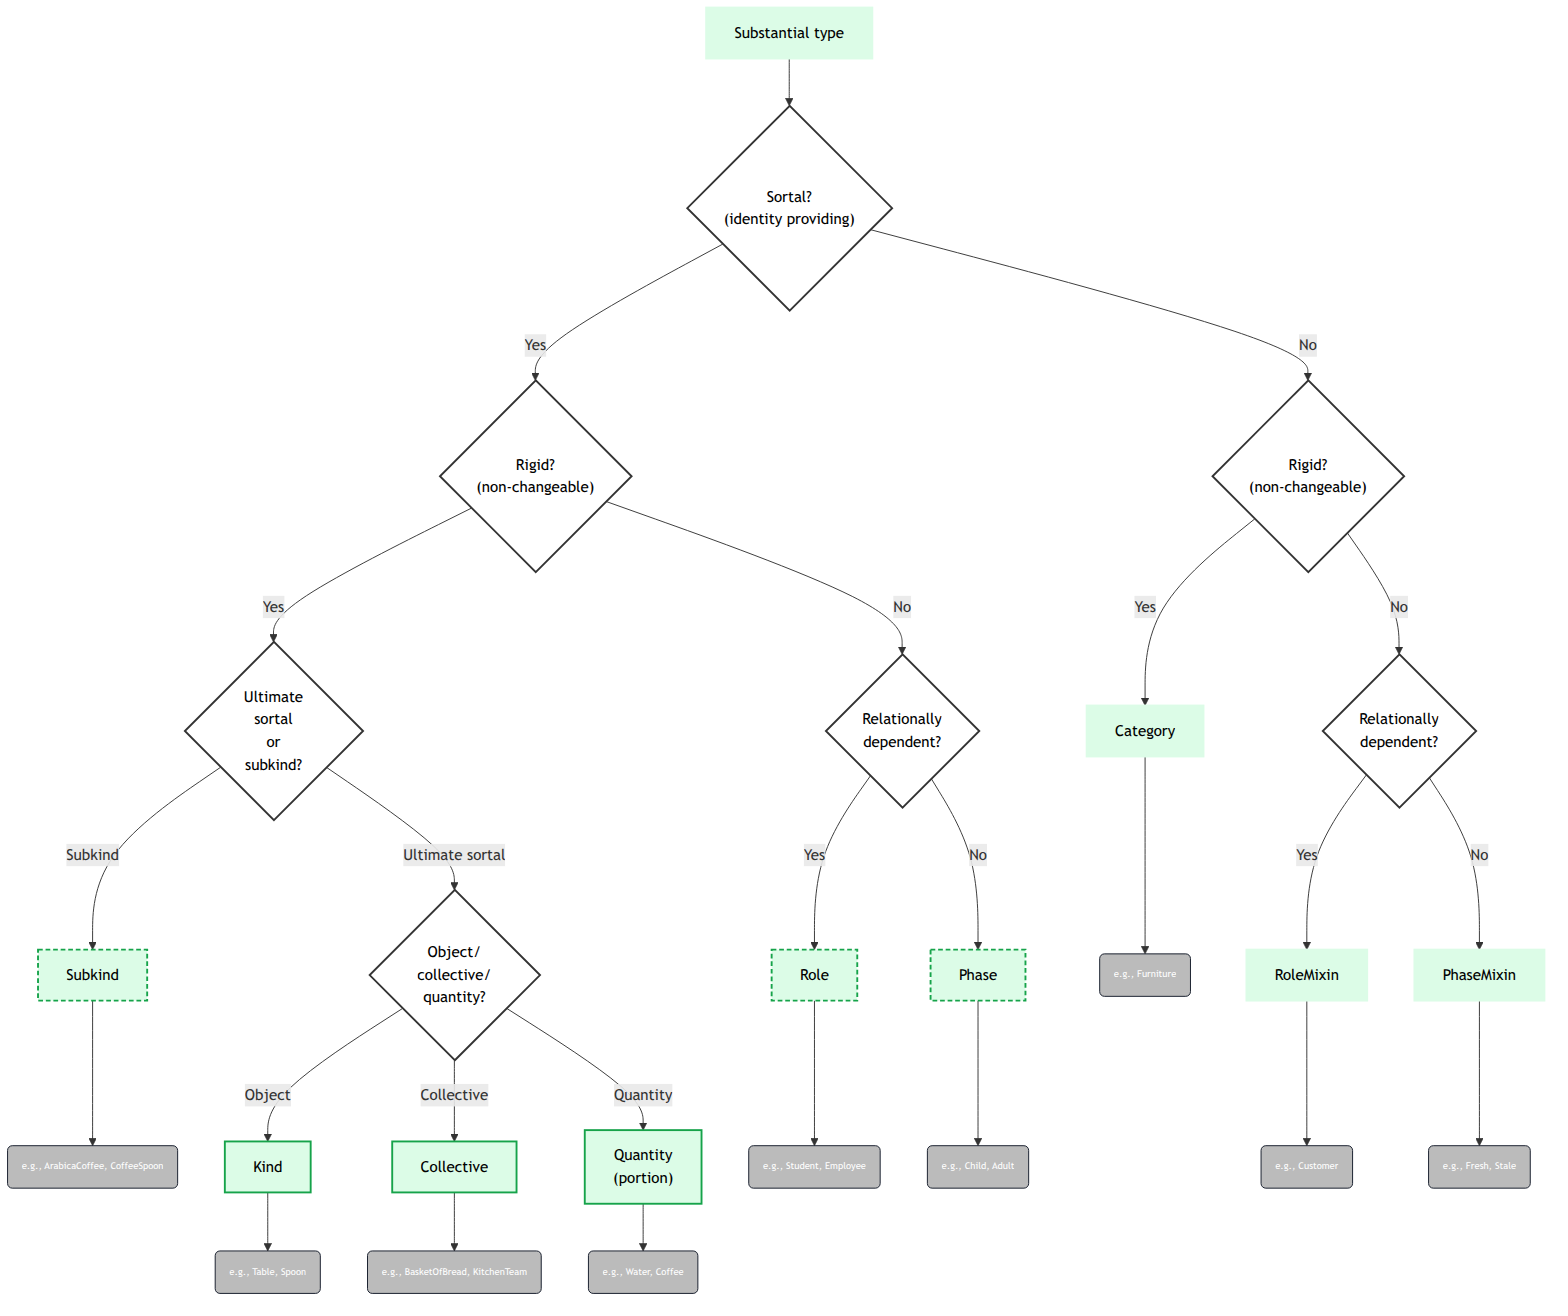
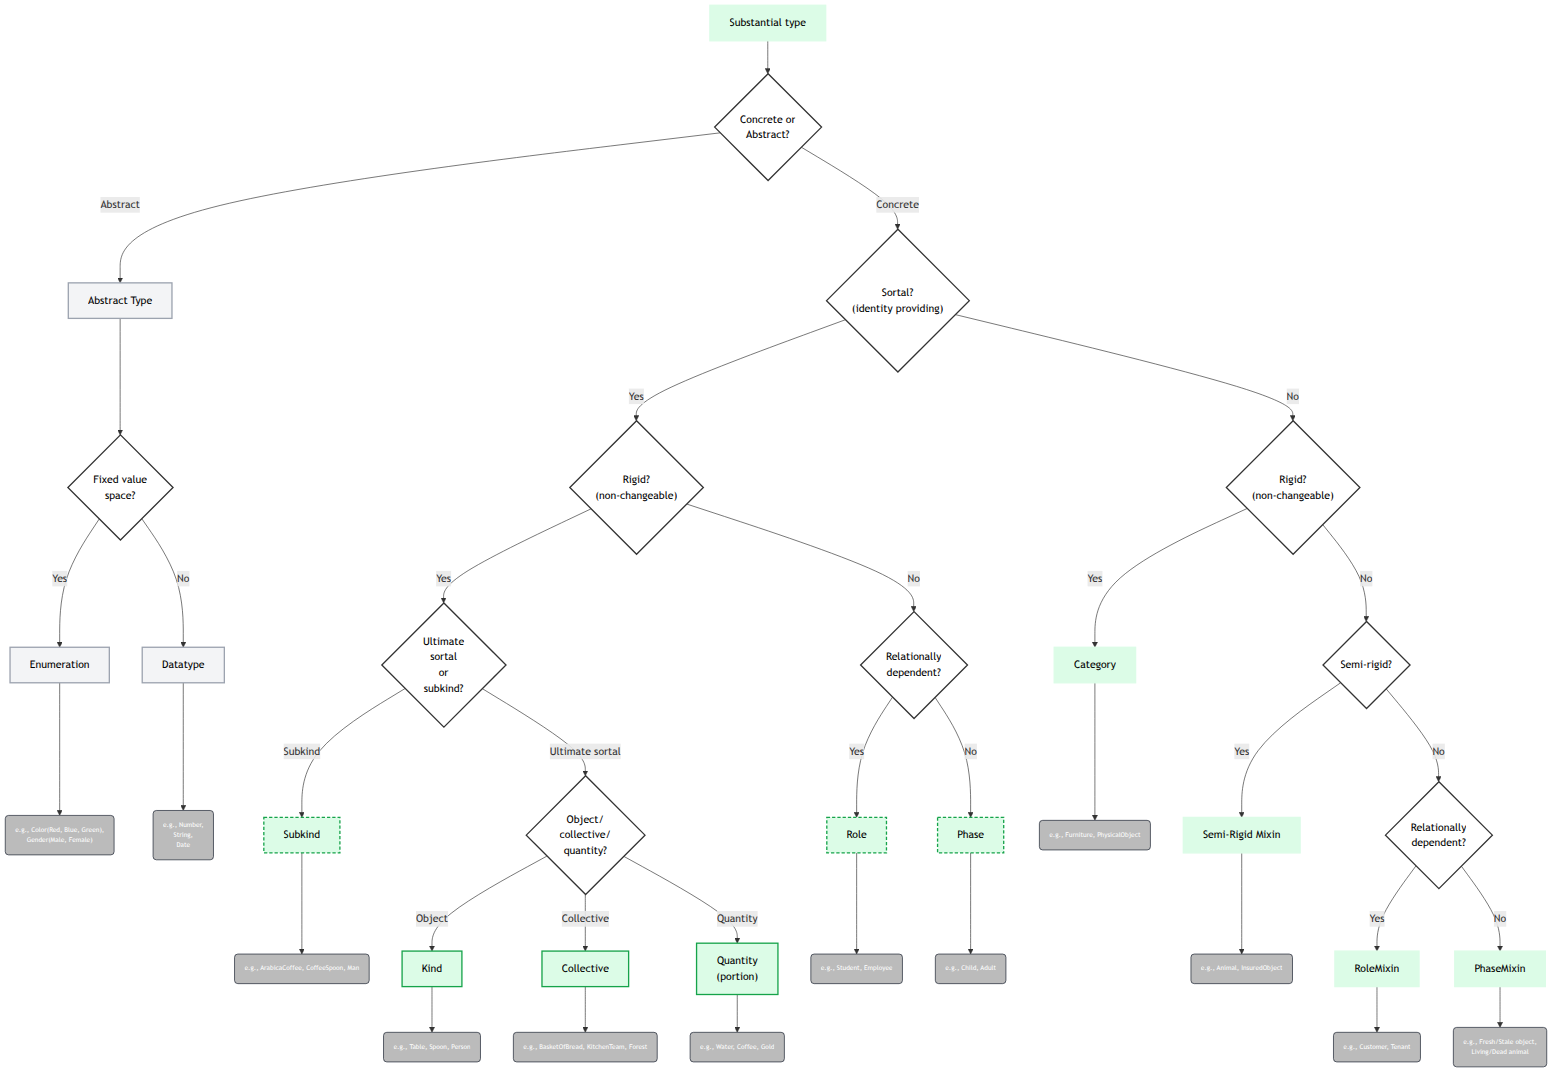
Moving towards first complete version.

diff --git a/README.md b/README.md
@@ -1,13 +1,78 @@
-UFO Modeling Decision Tree
+[UFO Modeling Decision Tree
 ==========================
-This project aims to help novices to get up to speed with UFO modeling. The project contains a decision tree that helps to decide which UFO entity to choose.
+The UFO Modeling Decision Tree is step-by-step guide designed to help novice modelers navigate the Unified Foundational Ontology (UFO). This project provides a structured path to help you decide which UFO entity best represents a concept in your domain, using a series of intuitive questions.
 
-Since I am a novice myself, I am not sure if this decision tree is correct or complete. 
+## Project goals
+The primary aim is to provide a clear overview of the different UFO entities, helping to get a "feel" for the framework without getting lost in formal logic. While the project was born from a learning journey, it has been refined to reflect the core pillars of UFO-A (Structural) and UFO-B (Events/Perdurants).
 
-The aim is to give a good overview of the different UFO entities, so that you can get a feel for the framework. The focus for now is on UFO-A and UFO-B.
+After you get a "feel", reading official UFO documentation should be more straightforward. It is recommended to do this, since the tree is a practical guide and not meant to be a replacement for the official documentation.
+
+![UFO Decision Tree Preview](00-Start.png)
+
+## Key Characteristics
+To make modeling as efficient as possible, this decision tree follows a few unique design principles:
+
+- Type-Individual Mirroring: There is a symmetry between the Universal (Type) tree and the Individual (Instance) tree. This ensures that the logic you use to define a category (e.g., "Person") is the same logic you use to classify a specific fact (e.g., "John").
+- Referential Consistency: To reduce complexity, the Individual tree acts as a "mirror." For well-understood structures like Part-Whole relations, the Individual tree refers you back to the Type tree's laws rather than duplicating the entire sub-tree.
+- Module Integration: The flow seamlessly bridges structural categories (UFO-A) with dynamic event mereology (UFO-B).
+- Visual Guidance: Consistent color-coding helps you stay oriented:
+
+    - Green: Substantial Types (Objects, Kinds)
+    - Orange: Moment Types (Properties, Relators)
+    - Blue: Perdurant Types (Events, Processes)
+    - Purple: Fundamental Associations (Characterization, Mediation, etc.)
+    - Yellow: Part-Whole Relations (ComponentOf, MemberOf, etc.)
+    - Light gray: Abstract types
+    - Darker gray: Individuals
+- Occurrence Terminology: "Occurrence" is used for non-intentional atomic events to create clearer distinction from Actions. UFO uses "Event" generically
+- Situation: Includes situation individuals from recent UFO extensions, representing states of affairs that trigger or result from events.
 
 ## Getting Started
-Just open the png files.
+1. Start here: Open `00-Start.png` to classify your term as Individual or Universal
+2. For Types: Follow the Universal branch through Substantial, Moment, or Perdurant trees
+3. For Instances: Open `01-Individual.png` to navigate instance-level entities and relations
+4. Examples provided: Each decision node includes concrete examples to guide you
+
+## File Structure
+- `00-Start.mermaid` - Top-level: Individual vs. Universal
+- `01-Individual.mermaid` - Instance-level entities and relations
+- `02-Substantial.mermaid` - Types: Kinds, Roles, Phases, Categories, etc.
+- `03-Moment.mermaid` - Types: Qualities, Modes, Relators
+- `04-Relational.mermaid` - Relations and fundamental associations
+- `05-Perdurant.mermaid` - Types: Events, Actions, Processes, Activities
+
+### Example: Modeling "John's Marriage to Mary"
+
+As a Type (Universal):
+
+- Individual or Universal? → Universal
+- Unary or Binary? → Unary (Marriage is an entity)
+- 1st-order or Higher? → 1st-order
+- Endurant or Perdurant? → Endurant
+- Independent? → No (depends on people involved)
+- Intrinsic or Relator? → Relator (mediates relationship)
+  → Result: Relator type
+
+As an Instance (Individual):
+
+- Individual or Universal? → Individual
+- Unary or Binary? → Unary (this specific marriage)
+- Endurant/Perdurant/Situation? → Endurant
+- Substantial or Moment? → Moment
+  → Result: Moment individual (specifically: a relator individual)
+
+## Theoretical Liberties and streamlining
+To keep the tree accessible for rapid modeling, some strategic "corner-cutting" was applied where a formal distinction might cause "decision fatigue" for beginners:
+
+- Participation Placement: Placed in the Relational tree to emphasize its role as a link between objects and events.
+- Mode/Disposition Grouping: Combined into a single node for a smoother entry point.
+- Abstract Simplification: Using "Fixed value space" as a practical rule of thumb to distinguish between Datatypes and Enumerations.
+- Domain Relation: Used as an umbrella term for both Formal and Material relations to match common modeling practice. These relations are about the domain that is modeled.
+
+## Learn More
+- [Official UFO Documentation](https://nemo.inf.ufes.br/projetos/ufo/)
+- [OntoUML Documentation](https://ontouml.readthedocs.io/)
+- [UFO 2022 Paper](https://philpapers.org/archive/PORUUF.pdf)
 
 ## Rendering
 For rendering the mmdc mermaid cli tool is used. See render.sh for more information.
